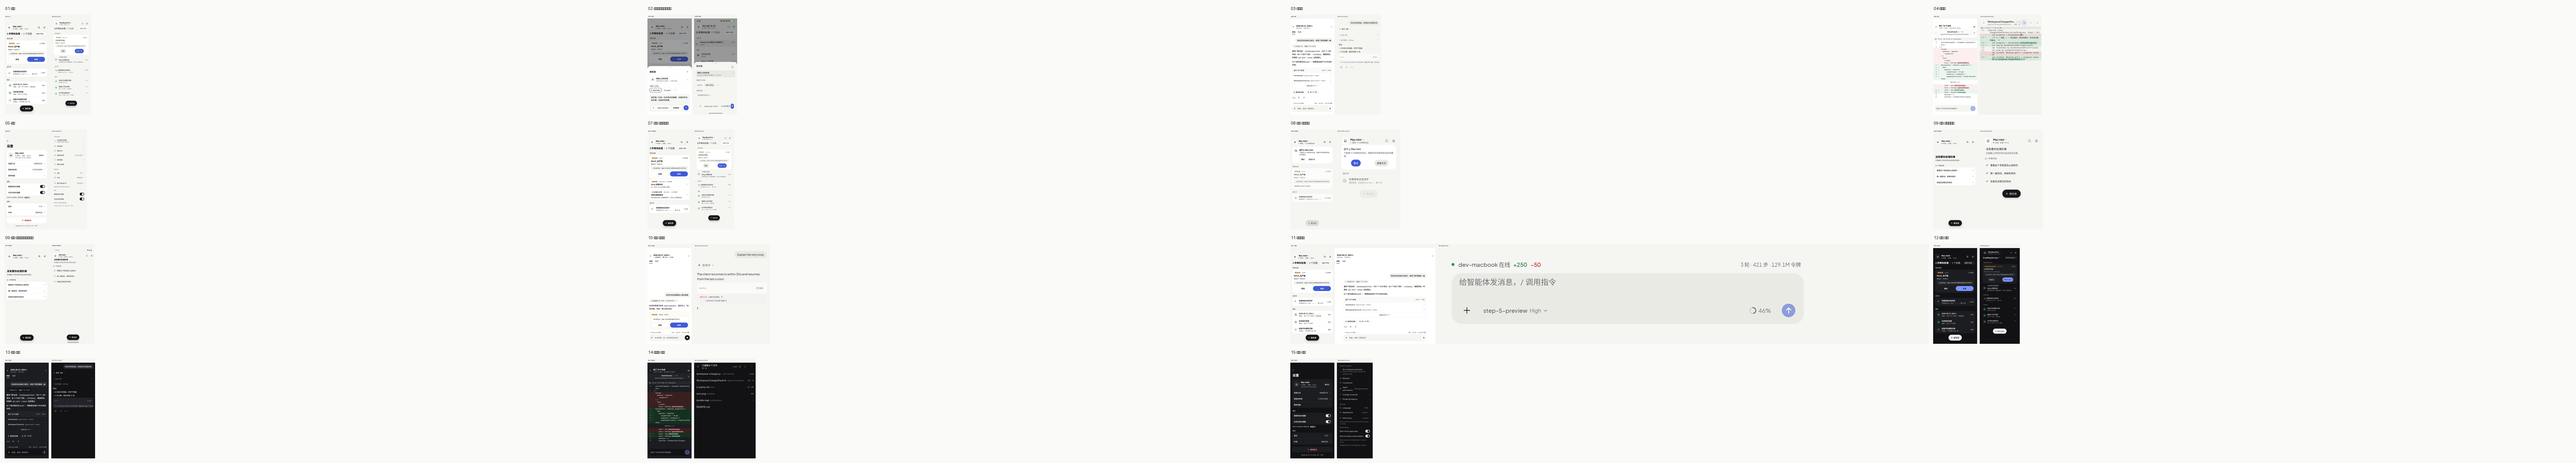
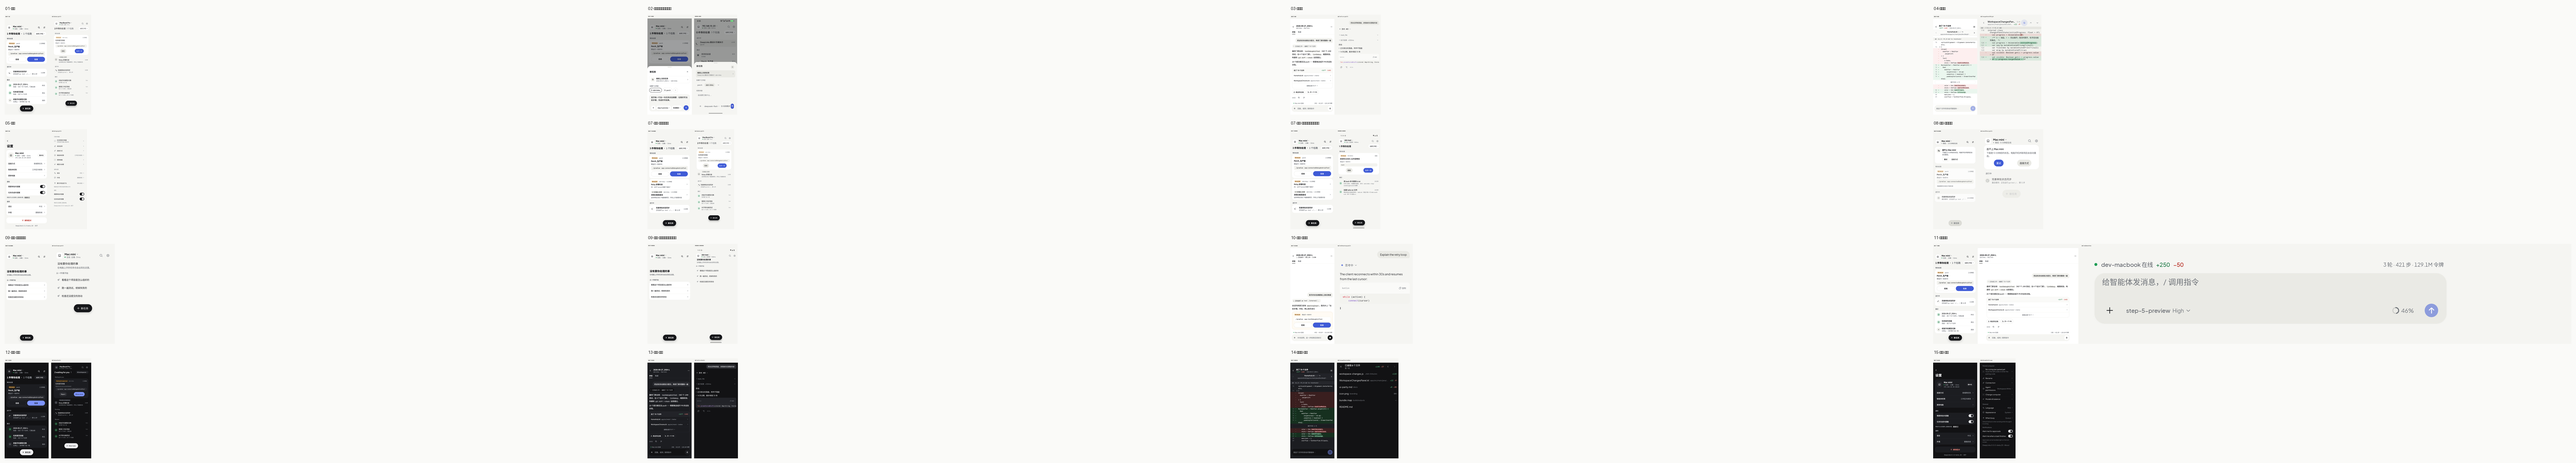
fix(plugin): 等审批的会话进「等你处理」——按历史推导 awaitingInput（真机验证通过）
方案阶段 3 第 4 条要求等审批的会话落在「等你处理」分区、最早一件展开成审批卡（稿 07）。真机上
一直是 `0 件等你处理 · 2 个在跑`：因为插件只在 approval/request 钩子在飞时置 awaitingInput，
而这版 DSH 的这类审批根本不走那个钩子（上一轮探针实测：钩子一次没触发）。

改法：新增 deriveAwaitingInput(events) —— 历史里有 approval/asked 而没有配对的 approval/decided
即在等人；在 attachSessionActivity 里接到会话行（带缓存；只在**这一轮还在跑**时算，避免把上一轮
作废的残留审批算进来）。

真机证据（隔贴时序轮询）：~6s running=True awaitingInput=True；~48s 一轮结束自动回落 None。
首页实拍：`1 件等你处理 / 等你处理 / 等你批准 · link-demo · 刚刚 / 标题 / 想运行一条命令：/ bash +
命令块 / 拒绝 允许一次`，与稿 07 同形。已并入对照集（07 实拍）。

插件门禁 282 例全绿（新增 4 例）。

同时记下新发现（更大）：手机能看到审批却回答不了——App 走 POST …/approval，该端点先查
rt.requests.getApproval，而本版插件永远拿不到记录，于是每次都 409「审批已结束或不存在」。
下一轮查这版宿主的审批回答入口。

diff --git a/src/mobile-api.js b/src/mobile-api.js
@@ -5,7 +5,7 @@ import { randomBytes } from "node:crypto"
 import { homedir, hostname } from "node:os"
 import { callLocalRpc, LocalRpcError } from "./local-rpc.js"
 import { mobileSessionSummary } from "./mobile-session-summary.js"
-import { deriveActivity, deriveLastResult, deriveStoppedReason } from "./mobile-session-activity.js"
+import { deriveActivity, deriveAwaitingInput, deriveLastResult, deriveStoppedReason } from "./mobile-session-activity.js"
 import { handleMobileModelsApi } from "./mobile-models.js"
 import { pluginCapabilities, PLUGIN_PROTOCOL } from "./protocol-caps.js"
 import { workspaceChangesService, parseChangesCoordinates, projectChangesSummary, projectFileDiff } from "./workspace-changes.js"
@@ -127,18 +127,26 @@ export async function attachSessionActivity(rt, targetPort, sessions, deps = {})
         if (hit.activity) row.activity = hit.activity
         if (hit.lastResult) row.lastResult = hit.lastResult
         if (hit.stoppedReason) row.stoppedReason = hit.stoppedReason
+        if (hit.awaitingInput) row.awaitingInput = true
         continue
       }
       const events = await readEvents(row.sessionId)
       if (!events) continue
       // 已结束的会话：这一轮是怎么结束的（首页「最近」要靠它区分已完成 / 已停止）
       const stoppedReason = deriveStoppedReason(events)
+      // 「等你处理」：历史里有没人回答的审批就要算（钩子在这版 DSH 上收不到这类请求）。
+      // 但**这一轮已经收尾**（完成 / 被打断 / 被停止）时，那条审批已经作废，不能算在等人。
+      // 只在**这一轮还在跑**时算：非 running 的会话里残留的未答审批是上一轮作废的
+      // （实测：重启实例打断上一轮后，stoppedReason 会一直挂着 interrupted，
+      //  但它对进行中的新一轮是陈旧信息，不能据此否定「正在等审批」）。
+      const awaitingInput = Boolean(row.running) && deriveAwaitingInput(events)
+      if (awaitingInput) row.awaitingInput = true
       if (stoppedReason) row.stoppedReason = stoppedReason
       if (row.running) {
         const activity = deriveActivity(events)
         if (activity) {
           row.activity = activity
-          cache?.set(key, { activity, stoppedReason: row.stoppedReason })
+          cache?.set(key, { activity, stoppedReason: row.stoppedReason, awaitingInput })
         }
       } else {
         const lastResult = deriveLastResult(
@@ -147,7 +155,7 @@ export async function attachSessionActivity(rt, targetPort, sessions, deps = {})
         )
         if (lastResult) {
           row.lastResult = lastResult
-          cache?.set(key, { lastResult, stoppedReason: row.stoppedReason })
+          cache?.set(key, { lastResult, stoppedReason: row.stoppedReason, awaitingInput })
         }
       }
     }

diff --git a/src/mobile-session-activity.js b/src/mobile-session-activity.js
@@ -211,3 +211,25 @@ export function deriveLastResult(events, changesSummary) {
   if (text === null && files === null) return null
   return omitNullFields({ text, files, added, deleted })
 }
+
+/**
+ * 历史里是否有**没人回答的审批**：`approval/asked` 出现了、却没有配对的 `approval/decided`。
+ *
+ * 为什么按历史推导而不是插件钩子：DSH 0.1.5-rc.3 上沙箱升级这类审批**不经过**
+ * `approval/request` 瀑布（探针实测：100 秒里钩子一次没触发），但历史里会留下
+ * `approval/asked`（投影出的手机消息带 `requestStatus: "pending"`、`outcome: null`）。
+ * 首页「等你处理」分区据此判定，否则等审批的会话会被错归到「进行中」。
+ */
+export function deriveAwaitingInput(events) {
+  const asked = new Set()
+  const decided = new Set()
+  for (const item of events ?? []) {
+    const ev = item?.event ?? item
+    const id = ev?.data?.id
+    if (!id) continue
+    if (ev.type === "approval/asked") asked.add(id)
+    else if (ev.type === "approval/decided") decided.add(id)
+  }
+  for (const id of asked) if (!decided.has(id)) return true
+  return false
+}
